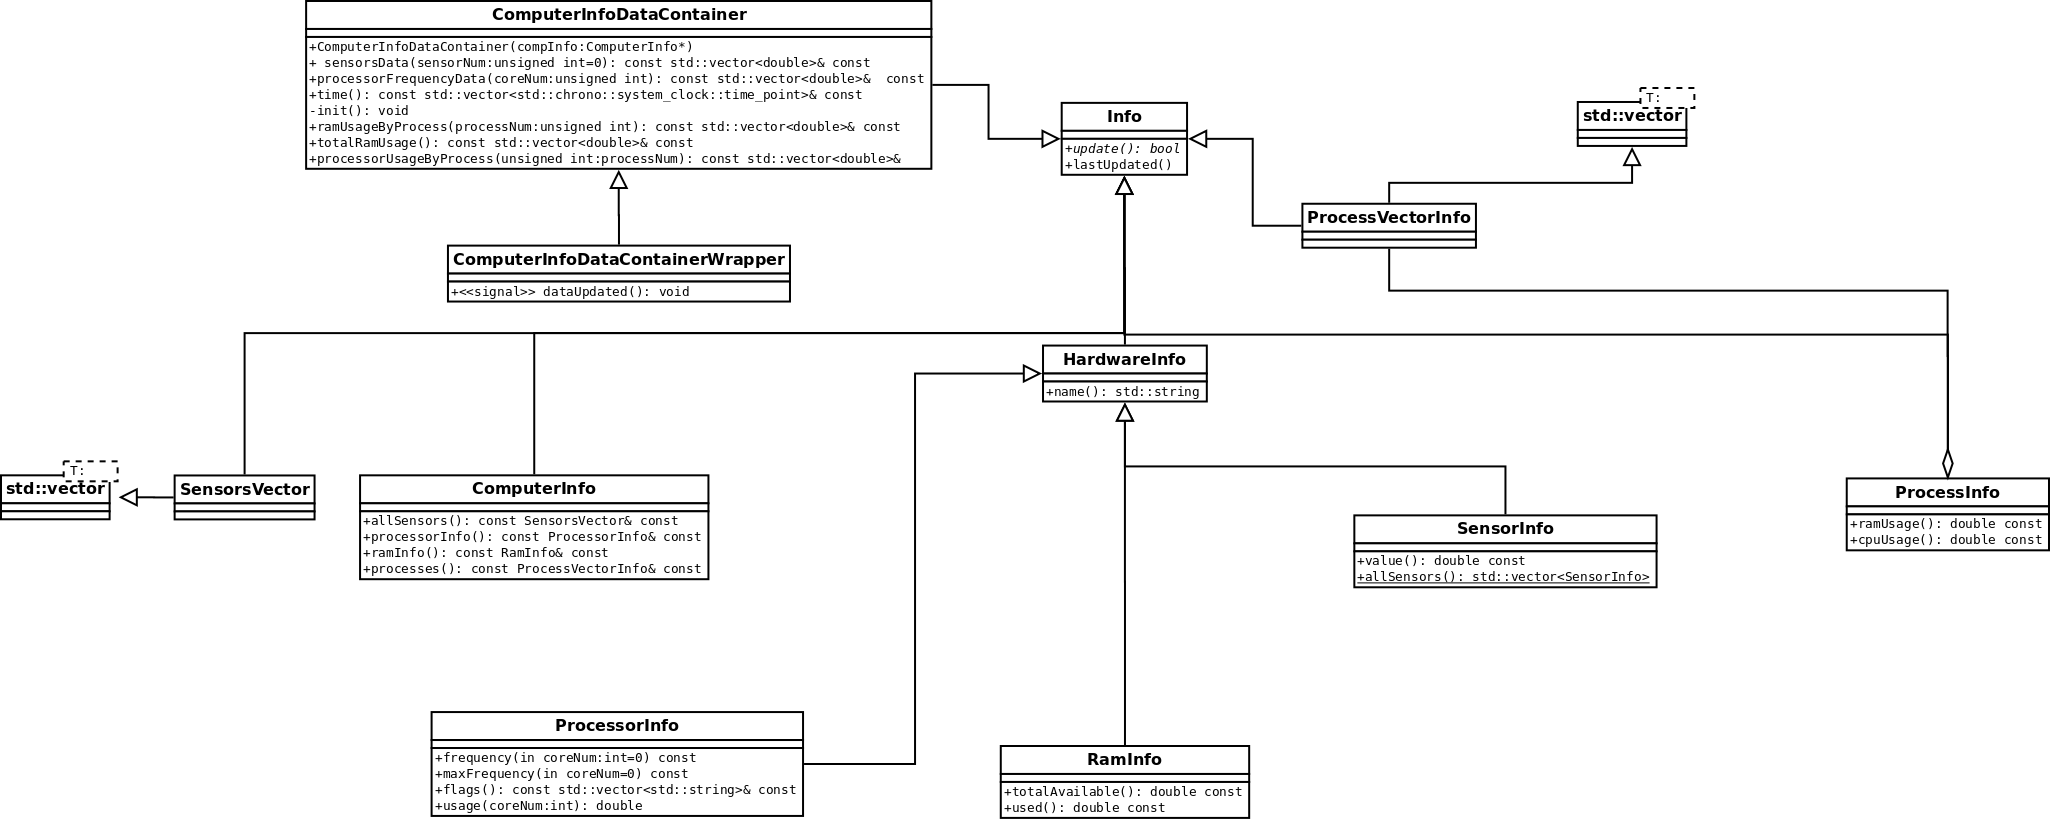
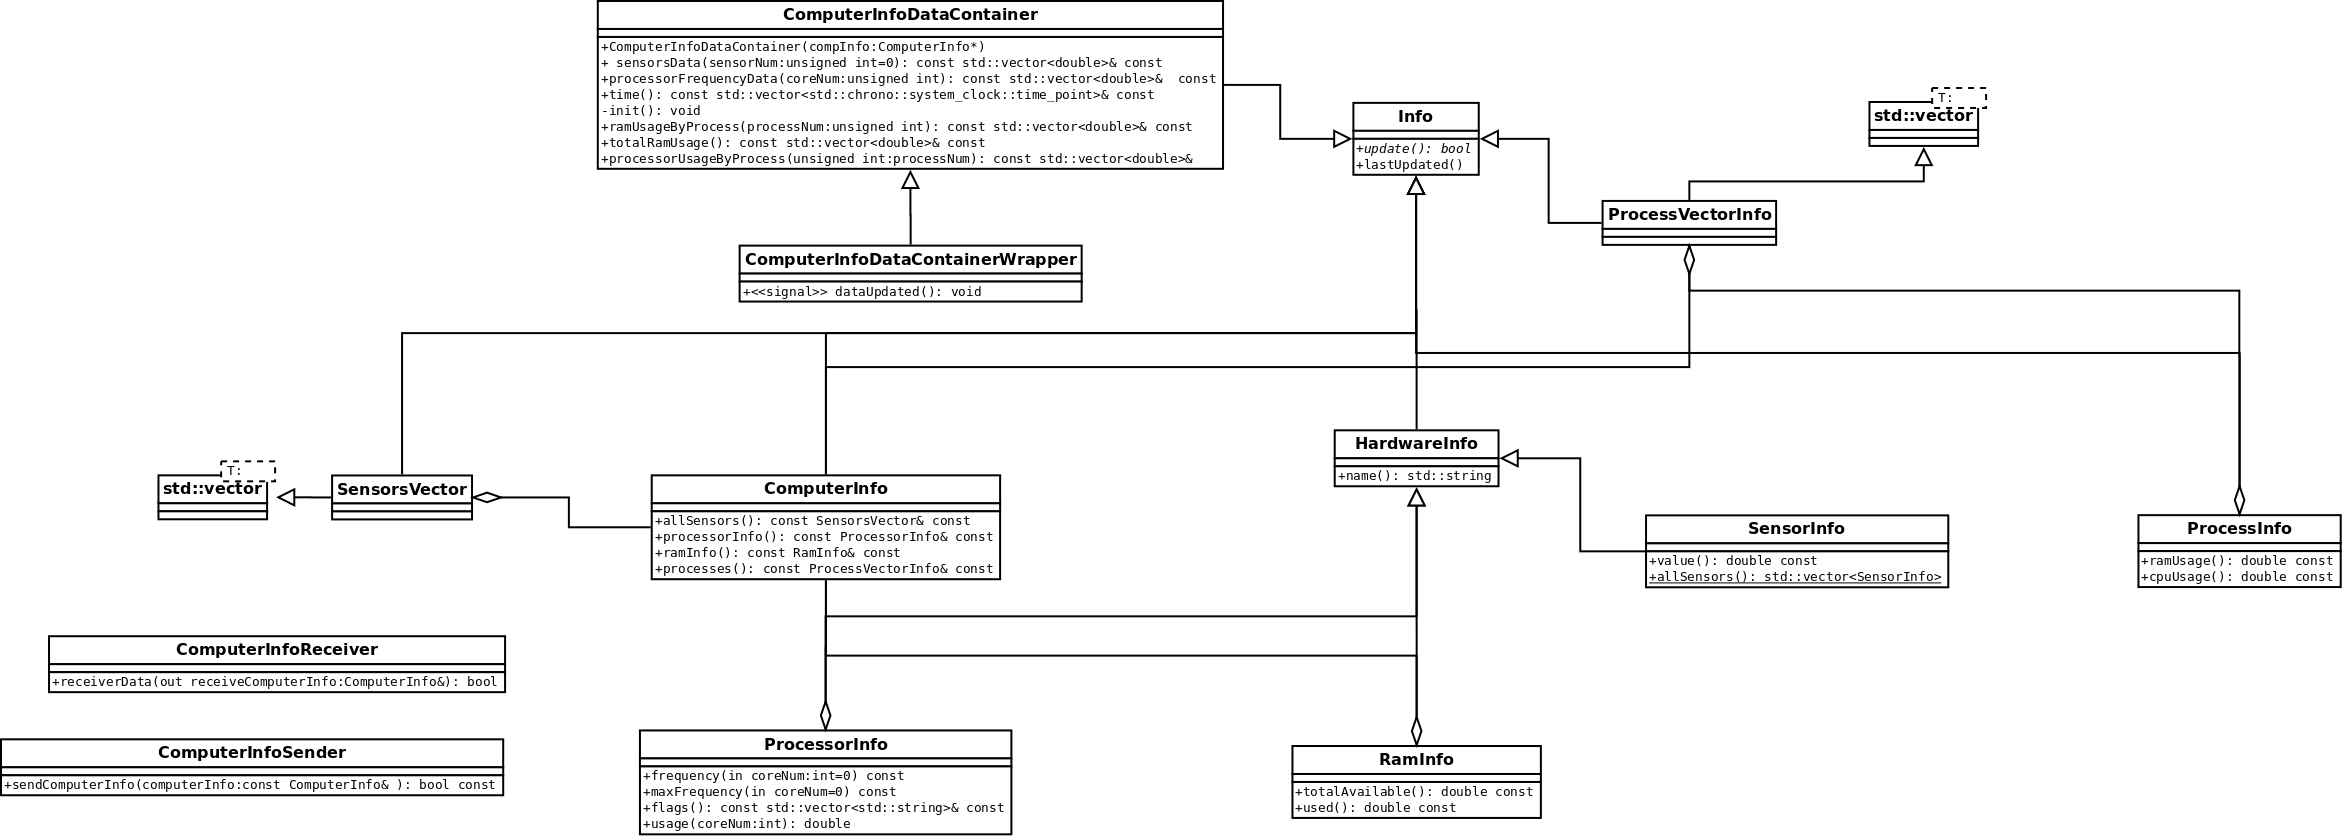
Poprawiono sprawozdanie na kwiecien

diff --git a/doc/april_summarize/summation_april.tex b/doc/april_summarize/summation_april.tex
@@ -30,7 +30,6 @@
 
 W ciągu miesiąca tj. 18.03-23.04 zostało wykonanych wiele prac nad aplikacją. W tym dokumencie opisano wykonane i przewidywane na następny miesiąc zadania oraz komentarz autora na temat postępów prac nad aplikacją.
 
-
 \section{Lista wykonanych zadań w projekcie}
 
 W poniższej tabeli zostały zebrane zadania, które udało się zrealizować do dnia 23.04.2015r.
@@ -54,20 +53,27 @@ W poniższej tabeli zostały zebrane zadania, które udało się zrealizować do
 \section{Szczegółowy opis wykonanych zadań}
 
 \subsection{Opracowanie architektury aplikacji}
-Program będzie opierać się na bibliotekach \textit{Qt5} i \textit{QCustomPlot}, które posłużą do prezentacji danych oraz dwóch autorskich bibliotek, które zostały opisane w następnych punktach: \textit{SystemMonitoringLib} oraz \textit{SystemMonitoringNetworkLib}. Biblioteki monitorujące będą komunikować się z wartswą prezentacji za pomocą odpowiedniej klasy pośredniczącej. Aplikacja została napisana przy wykorzystaniu wzorca projektowego \textit{MVC}. Diagram budowy aplikacji został przedstawiony na rysunku \ref{diagram_budowy_aplikacji}, a diagramy klas zostały przedstawione na rysunku \ref{diagram_klas}.
+Program będzie opierać się na bibliotekach \textit{Qt5} i \textit{QCustomPlot}, które posłużą do prezentacji danych oraz dwóch autorskich bibliotek, które zostały opisane w następnych punktach: \textit{SystemMonitoringLib}. Biblioteki monitorujące będą komunikować się z warstwą prezentacji za pomocą odpowiedniej klasy pośredniczącej. Aplikacja została napisana przy wykorzystaniu wzorca projektowego \textit{MVC}. Diagram budowy aplikacji został przedstawiony na rysunku \ref{diagram_budowy_aplikacji}, a diagramy klas zostały przedstawione na rysunkach \ref{diagram_klas_system_monitoring} oraz \ref{diagram_klas_gui}.
 
-%\begin{figure}[h]
-%	\centering
-%	\includegraphics{img/diagramBudowyAplikacji.png}
-%\end{figure}
+\begin{figure}[h]
+	\centering
+	\includegraphics[width=\linewidth]{img/diagramBudowyAplikacji.png}
+\end{figure}
 
 
 \begin{figure}[h]
 	\centering
 	\includegraphics[width=0.75\paperheight, angle=90]{img/diagramKlas.png}
-	\caption{Diagram UML stworzonych klas}
+	\caption{Diagram UML stworzonych klas niezwiązanych z interfejsem użytkownika}
+	\label{diagram_klas_system_monitoring}
 \end{figure}
 
+\begin{figure}[h]
+	\centering
+	\includegraphics[width=0.75\paperheight, angle=90]{img/diagramKlasGui.png}
+	\caption{Diagram UML stworzonych klas}
+	\label{diagram_klas_gui}
+\end{figure}
 
 \subsection{Stworzenie zalążka aplikacji}
 
@@ -94,7 +100,7 @@ W głównym folderze aplikacji znajdują się dwa foldery: \textit{doc} oraz \te
 \end{tabularx}
 
 \label{opis_folderow_prj}
-\caption{title}
+\caption{Opis poszczególnych folderów w katalogu \textit{prj/}}
 \end{table}
 
 \subsubsection{Proces kompilacji oraz opis narzędzia \textit{CMake}}
@@ -102,7 +108,7 @@ Program \textit{CMake} to wieloplatformowy system do budowania aplikacji. Dzięk
 znajdowanie odpowiednich plików nagłówkowych oraz bibliotek oraz kompilacja na różnych platformach (m.in. Linux i Windows). Każdy folder zawiera w sobie plik \textit{CMakeLists.txt}, który definiuje w jaki sposób ma zachować się program budujący.Dzięki niemu, oszczędzono wiele czasu na kompilację oraz konsolidację programu używającego bibliotek \textit{Boost} oraz \textit{Qt5}. Najpierw budowane są biblioteki, a następnie cały program. Wszystko zostaje skonsolidowane. Istnieje również możliwość wygenerowania dokumentacji, wystarczy, że zbudujemy cel \textit{doc}.
 
 \subsection{Biblioteka \textit{SystemMonitoringLib}}
-Jest to biblioteka do monitorowania lokalnego komputera. Pozwala na pobieranie odczytów z czujników, informacji o procesorze takich jak częstotliwość taktowania poszczególnych rdzeni, zużycie procesora, o pamięci RAM (dostępna pamięć, zużycie) oraz informacje o poszczególnych procesach. Na komputerze z uruchominionym systemem \textit{Linux}, biblioteka do zbierania informacji o komputerze używa innej biblioteki - \textit{sensorslib} oraz przetwarze pliki m.in. \textit{/proc/stat/}, \textit{/proc/cpuinfo}
+Jest to biblioteka do monitorowania lokalnego komputera oraz wysyłania informacji przez sieć. Pozwala na pobieranie odczytów z czujników, informacji o procesorze takich jak częstotliwość taktowania poszczególnych rdzeni, zużycie procesora, o pamięci RAM (dostępna pamięć, zużycie) oraz informacje o poszczególnych procesach. Na komputerze z uruchominionym systemem \textit{Linux}, biblioteka do zbierania informacji o komputerze używa innej biblioteki - \textit{sensorslib} oraz przetwarze pliki m.in. \textit{/proc/stat/}, \textit{/proc/cpuinfo}
 
 \subsection{Interfejs użytkownika}
 Roczpoczęto prace nad wizualizowaniem danych  odczytanych z czujników dostępnych na płycie głównej.
@@ -116,6 +122,7 @@ W widoku tabelki mamy możliwość podglądania aktualnych wartości odczytanych
 \end{figure}
 
 
+
 \section{Następne zadania do wykonania - aktualizacja planu pracy}
 Ze względu na to, że niektóre zadania zostały wykonane ponad plan,a pewna część zadań z planu została nie zrealizowana należało zastosować poprawki w planie pracy nad aplikacją. Tabela \ref{planPracy} przedstawia zaktualizowany plan pracy.
 
@@ -124,12 +131,11 @@ Ze względu na to, że niektóre zadania zostały wykonane ponad plan,a pewna cz
 			\begin{tabularx}{0.8\textwidth}{|c|c|c|X|}
 				\hline
 				Od & Do & Osiągnięty kamień milowy & Opis \\ \hline
-				23.03 & 29.03 &  & Zaprojektowanie interfejsu biblioteki do monitorowania komputera \\ \hline
-				20.04 & 26.04 &  & Zapoznanie się z metodami programowania sieciowego i dostępnymi bibliotekami oraz  rozpoczęcie implementacji biblioteki sieciowej\\ \hline
-				27.04 & 03.05 &  & Implementacja biblioteki sieciowej \\ \hline
+				20.04 & 26.04 &  & Zapoznanie się z metodami programowania sieciowego i dostępnymi bibliotekami oraz  rozpoczęcie implementacji biblioteki sieciowej, prace nad biblioteką monitorującą\\ \hline
+				27.04 & 03.05 & 1 & Implementacja biblioteki sieciowej oraz finalizacja prac nad biblioteką monitorującą \\ \hline
 				04.05 & 10.05 & 2 & Zakończenie prac nad biblioteką sieciową oraz kontynuacja projektowania interfejsu użytkownika \\ \hline
 				11.05 & 17.05 &    & Dalsze projektowanie interfejsu użytkownika oraz jego implementacja \\ \hline
-				18.05 & 24.05 &  & Implementacja interfejsu użytkownika \\ \hline
+				18.05 & 24.05 &  &  \\ \hline
 				25.03 & 31.03 & 3 & Implementacja interfejsu użytkownika oraz połączenie logiki programu z interfejsem \\ \hline
 				01.06 & 07.06 & 4 & Łączenie aplikacji graficznej z bibliotekami oraz początek testów aplikacji \\ \hline
 				07.06 & 13.06 &  & Ostateczne testy aplikacji \\ \hline

diff --git a/prj/inc/data/ComputerInfoDataContainerWrapper.hpp b/prj/inc/data/ComputerInfoDataContainerWrapper.hpp
@@ -26,7 +26,6 @@ class ComputerInfoDataContainerWrapper: public QObject, public Info
 
     signals:
     void dataUpdated();
-
 };
 
 #endif /* COMPUTERINFODATACONTAINERWRAPPER_HPP_ */

diff --git a/prj/lib/SystemMonitoringLib/inc/Info.hpp b/prj/lib/SystemMonitoringLib/inc/Info.hpp
@@ -11,6 +11,9 @@
 #include <chrono>
 #include <string>
 
+/*!
+ *
+ */
 class Info
 {
   public:
